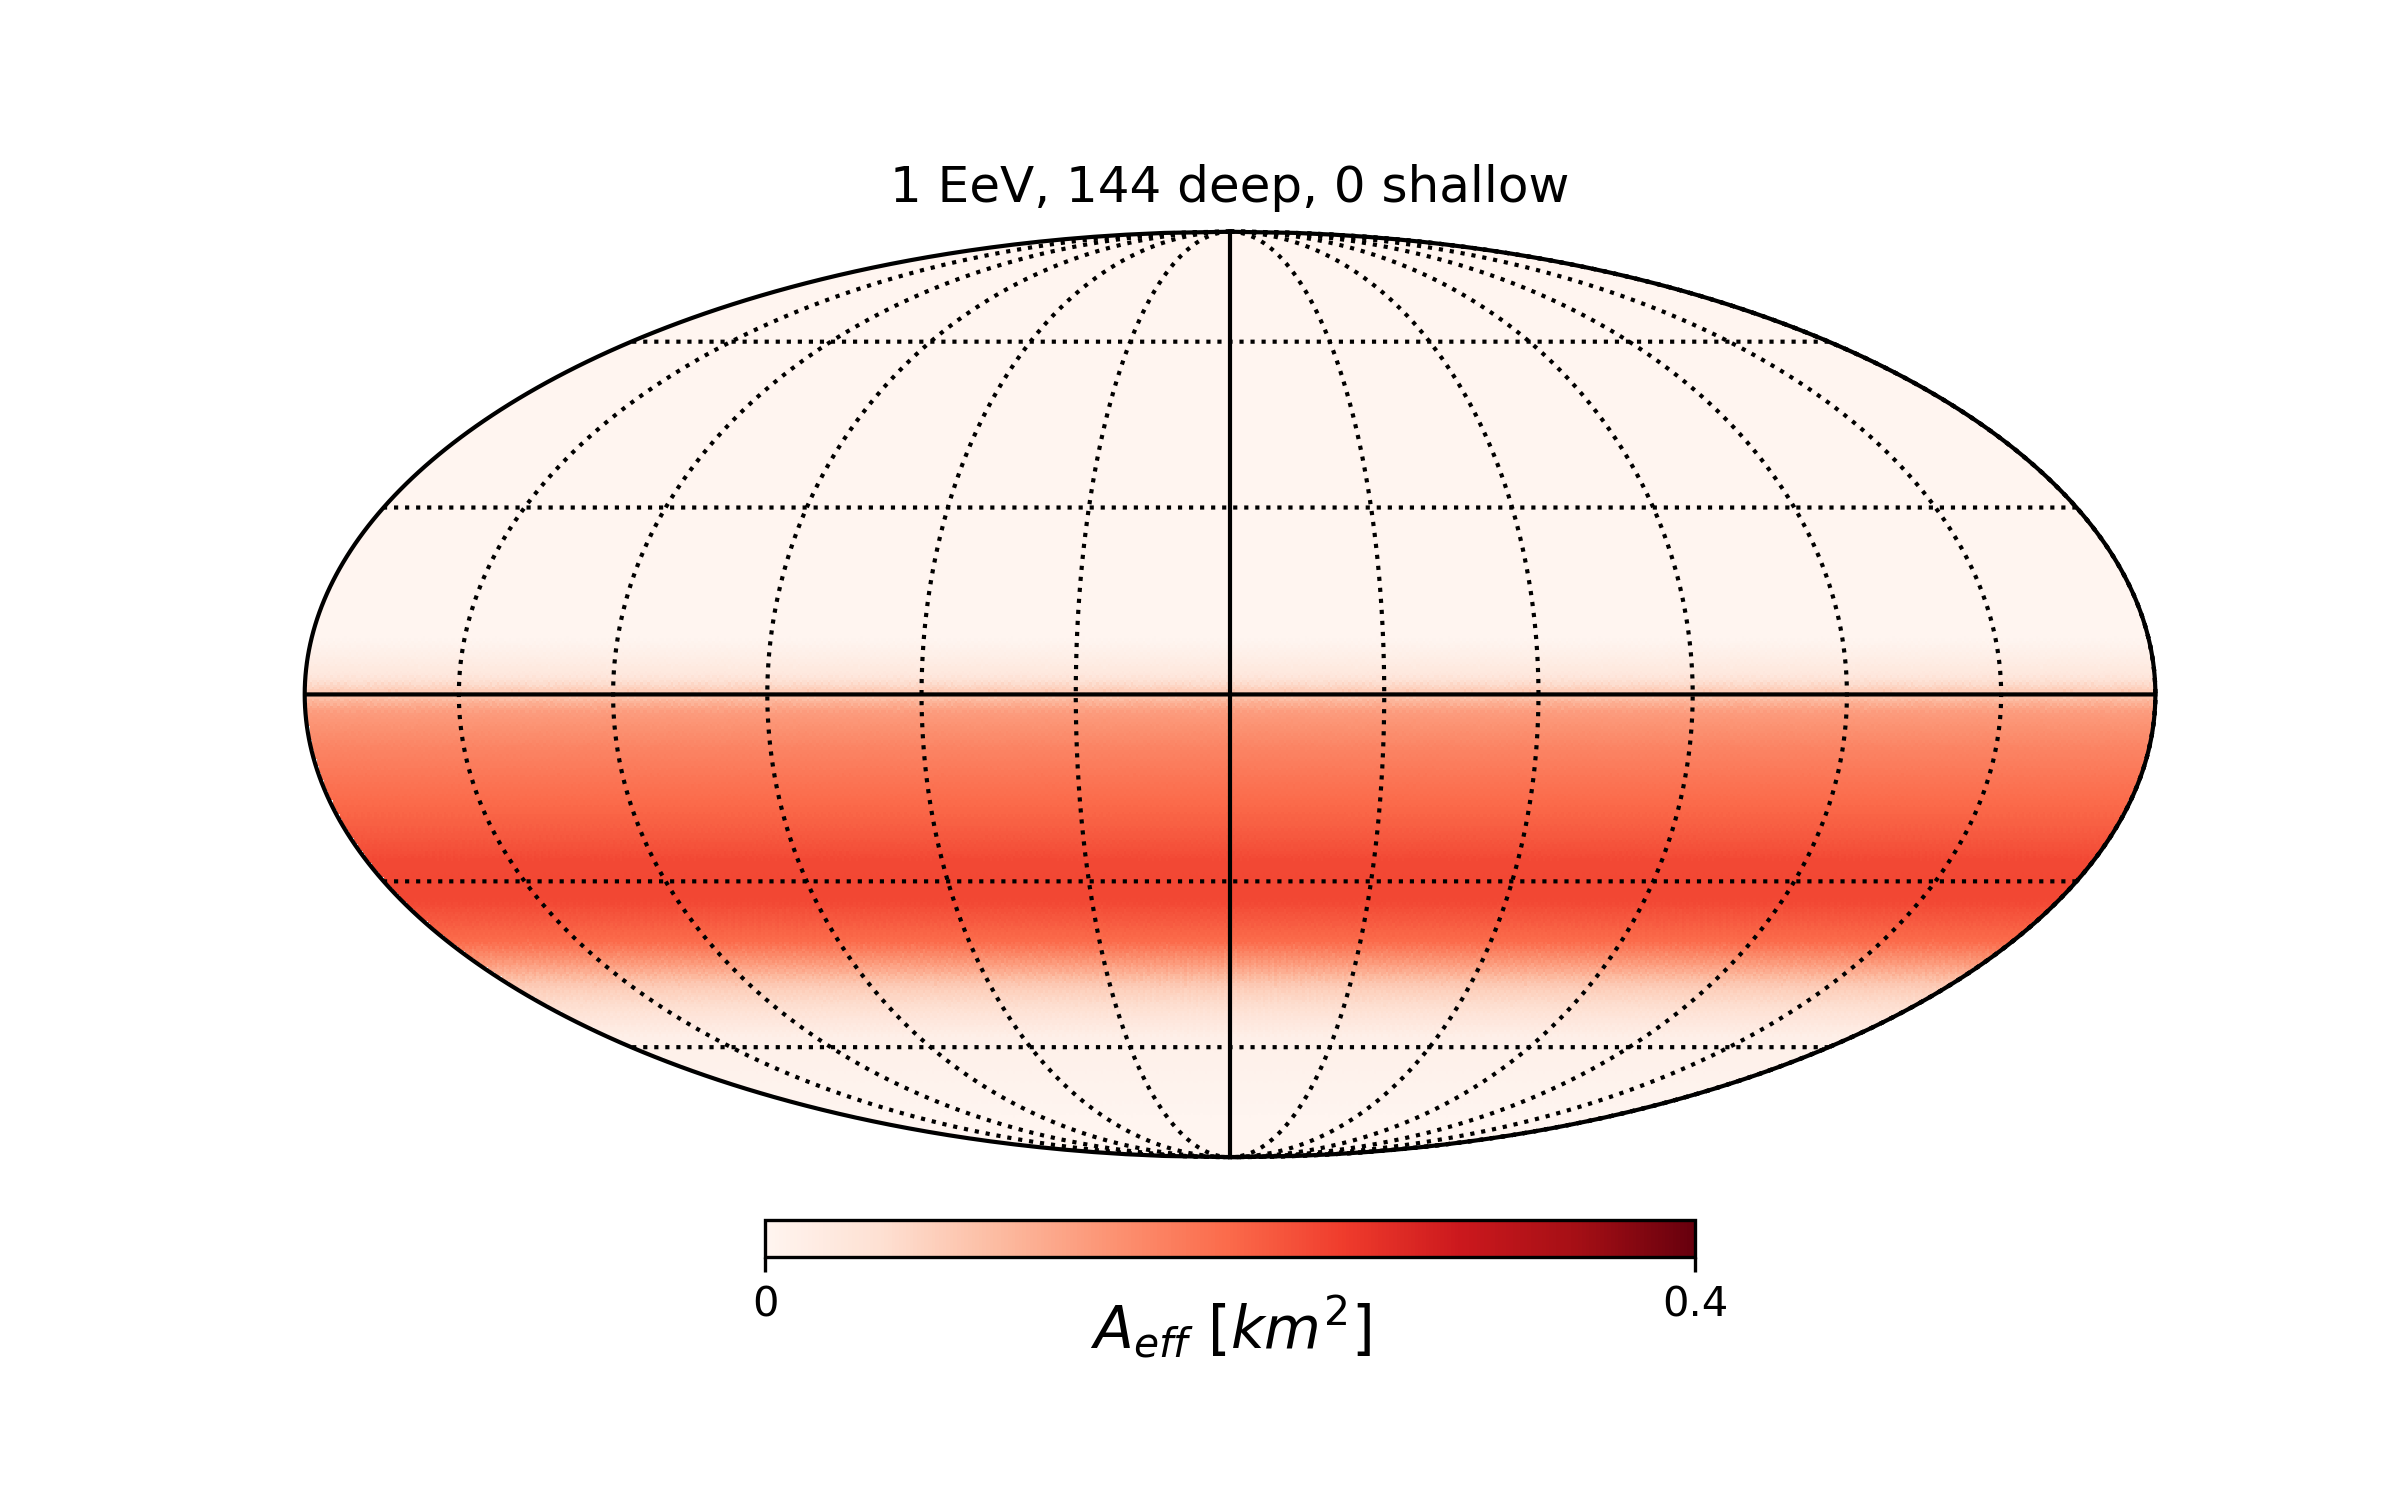
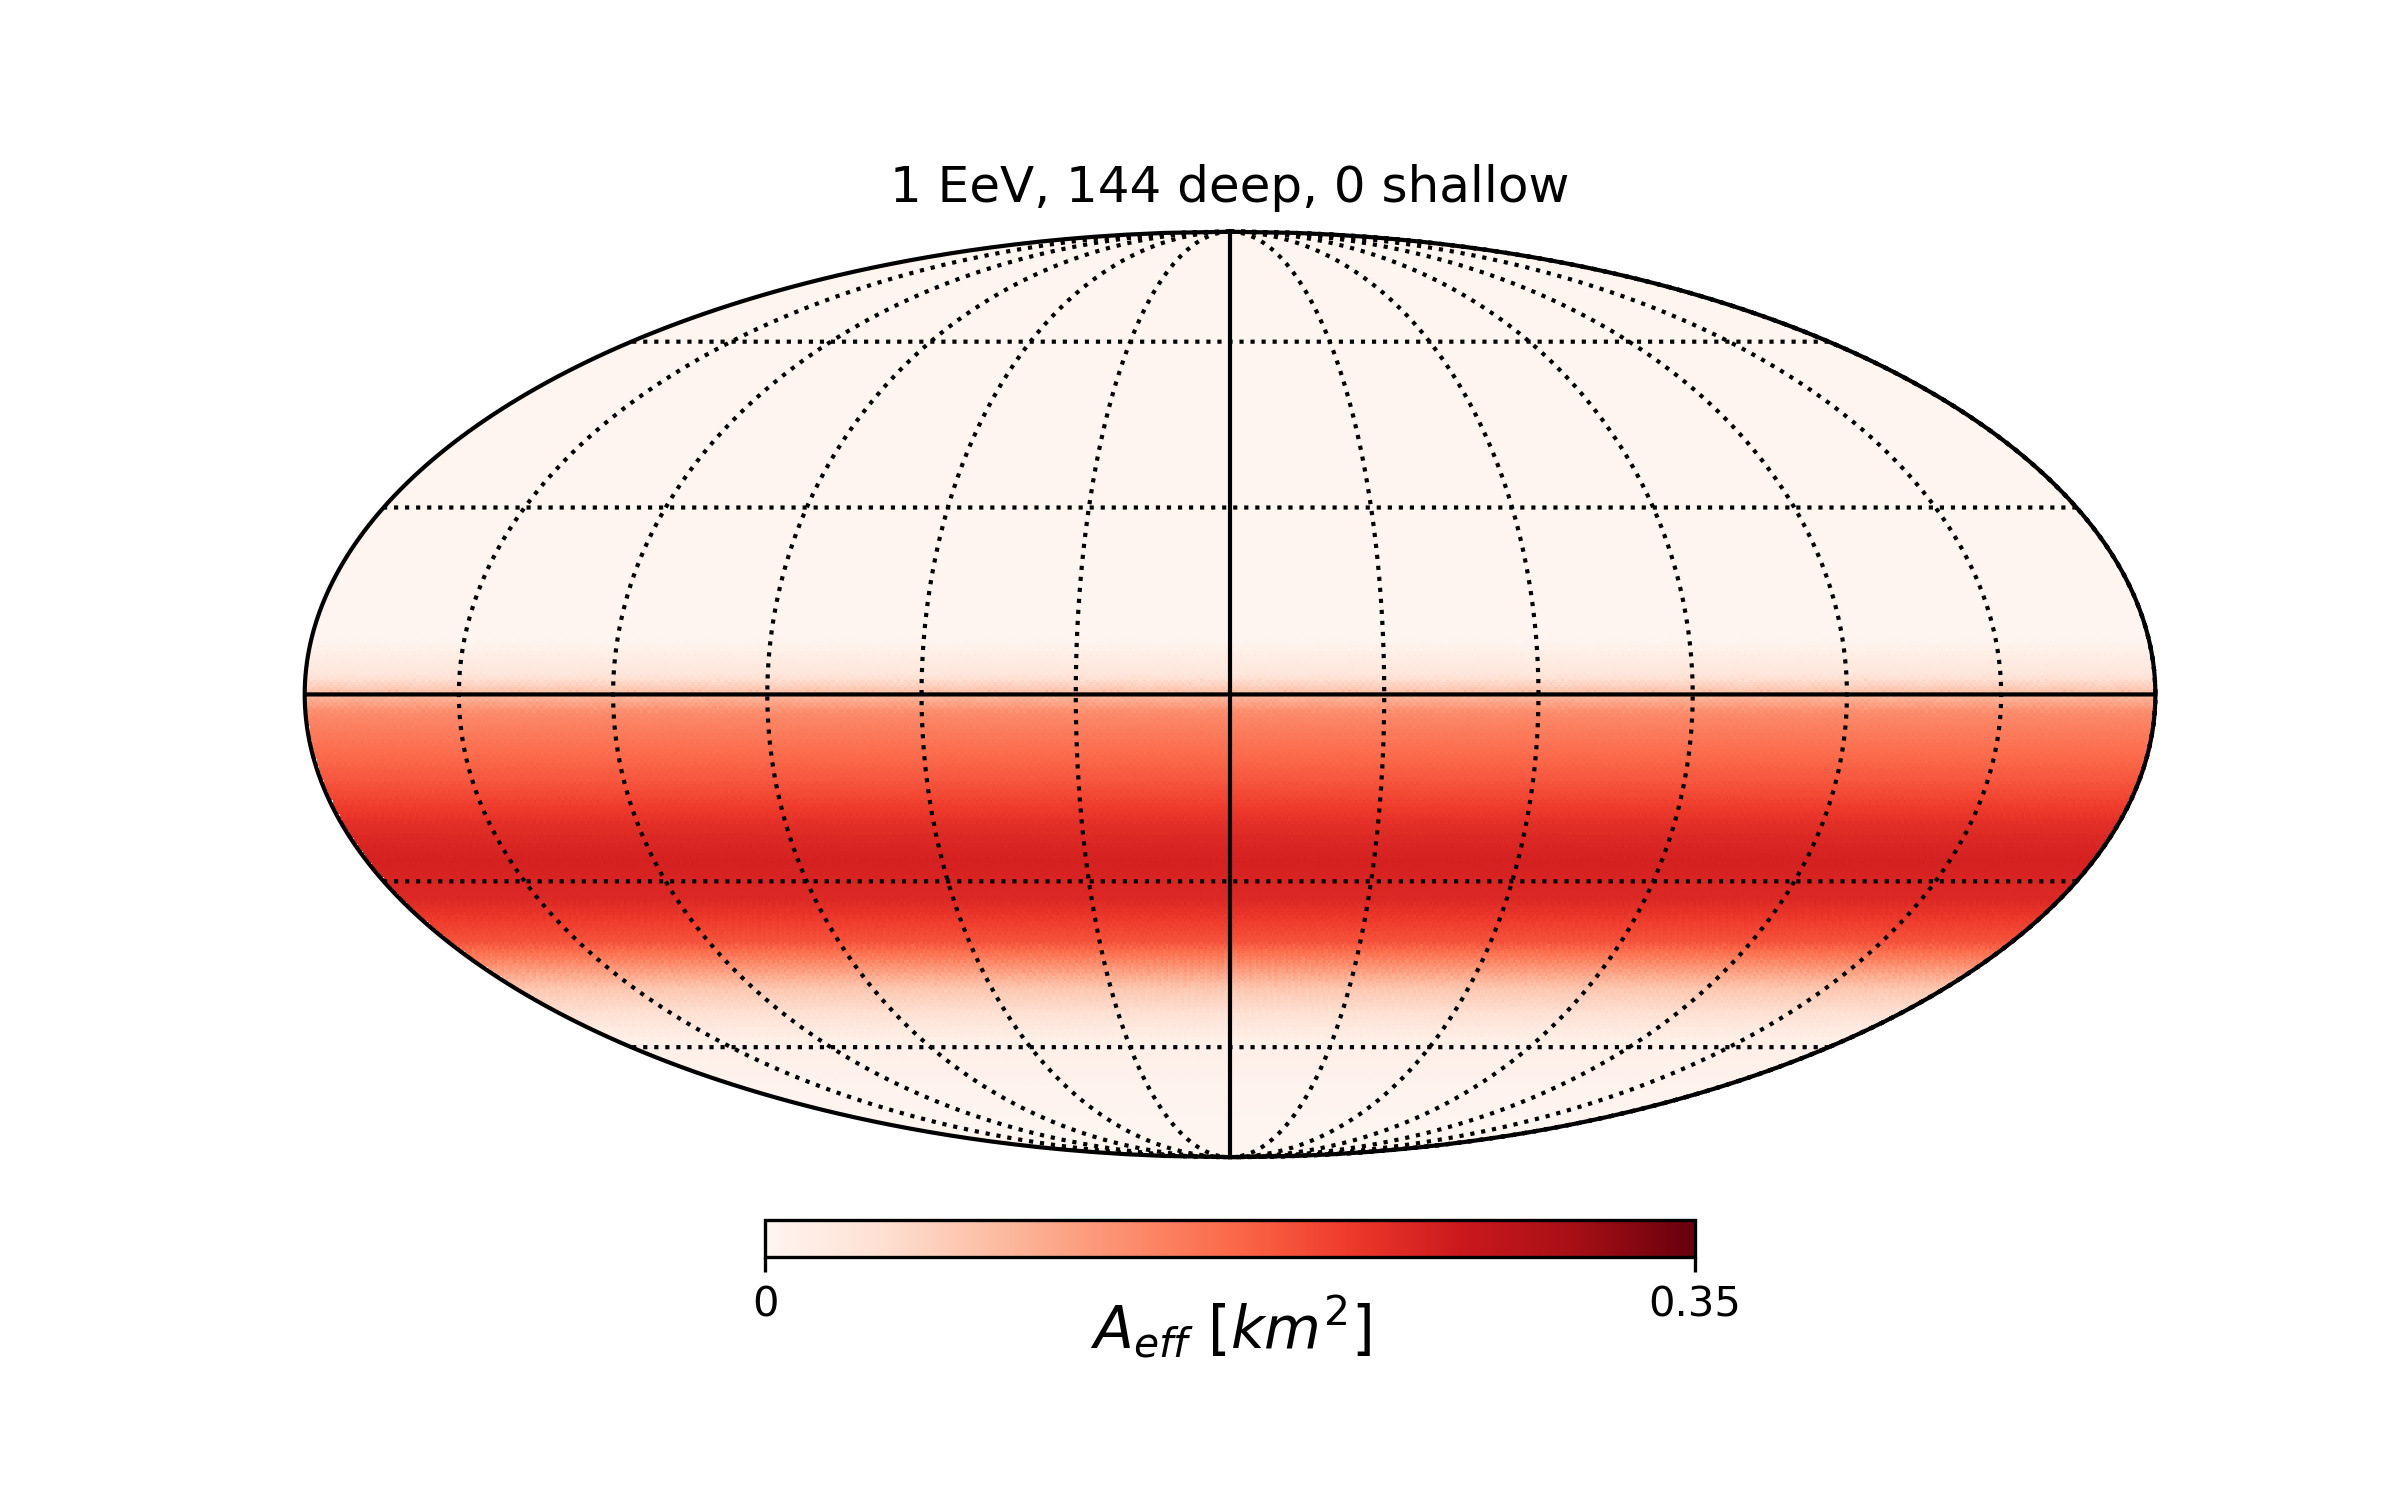
update the sky coverage plots with the proper LPDA aeff

Changed region(s): [[0.125, 0.4907, 0.9062, 0.644], [0.6875, 0.8587, 0.7188, 0.8893]]

diff --git a/analysis/2021.02_review/sky_coverage/plot_sky_coverage.py b/analysis/2021.02_review/sky_coverage/plot_sky_coverage.py
@@ -4,7 +4,7 @@ import scipy as scipy
 from scipy import interpolate
 
 
-n_deep = 144*1
+n_deep = 144*0
 n_shallow = (169+144)*1
 
 deep_det = 'pa_200m_2.00km'
@@ -13,7 +13,7 @@ filename=f'tabulated_aeff_vs_coszen_review_hybrid.csv'
 
 data = np.genfromtxt(filename, delimiter=',', skip_header=6, names=['czmin', 'daeff', 'saeff', 'frac'])
 
-plot_aeff_vs_zen = True
+plot_aeff_vs_zen = False
 if plot_aeff_vs_zen:
 
 	zen_for_interp = data['czmin']
@@ -44,16 +44,15 @@ if plot_aeff_vs_zen:
 	# ax.plot(data['czmin'], data['saeff']*n_shallow, label='shallow')
 	# ax.plot(-(data['czmin']+0.05), to_plot)
 	ax.plot(-to_plot_x, to_plot_y)
-
 	# 3dB point
-	ax.plot([-1,1],[0.2,0.2], 'C7--')
+	ax.plot([-1,1],[0.17,0.17], 'C7--')
 	ax.annotate(r'"3dB Point"', xy=(-.95,0.22), xycoords='data', rotation=0, color='C7')
 
-	ax.plot([-0.65,-0.65],[1e-7,1], 'C7--')
-	ax.annotate(r'$\delta=-40^{\circ}$', xy=(-0.70,1e-2), xycoords='data', rotation=90, color='C7', size=12)
+	ax.plot([-0.67,-0.67],[1e-7,1], 'C7--')
+	ax.annotate(r'$\delta=-42^{\circ}$', xy=(-0.72,1e-2), xycoords='data', rotation=90, color='C7', size=12)
 
-	ax.plot([0.005,0.005],[1e-7,1], 'C7--')
-	ax.annotate(r'Horizon', xy=(-0.05,1e-2), xycoords='data', rotation=90, color='C7', size=12)
+	ax.plot([0.025,0.025],[1e-7,1], 'C7--')
+	ax.annotate(r'$\delta=2^{\circ}$', xy=(-0.03,1e-2), xycoords='data', rotation=90, color='C7', size=12)
 	
 	# ax.set_xlabel(r'cos($\theta$)')
 	ax.set_xlabel(r'sin($\delta$)',size=15)
@@ -67,7 +66,7 @@ if plot_aeff_vs_zen:
 	plt.tight_layout()
 	fig.savefig('aeff_vs_coszen.png',dpi=300)
 
-doHealpyPlot = False
+doHealpyPlot = True
 if doHealpyPlot:
 
 	# pad a bit to get digitization to work right
@@ -139,7 +138,7 @@ if doHealpyPlot:
 							unit='\n'+r'$A_{eff} \,\,[km^2]$',
 							# unit='\n'+r'Relative Effective Area',)
 							min=0,
-							max=0.40,
+							max=0.35,
 							cmap='Reds')
 	hlpy.graticule()
 	fig.savefig('sky_coverage_{}deep_{}shallow.png'.format(n_deep, n_shallow), dpi=300)
